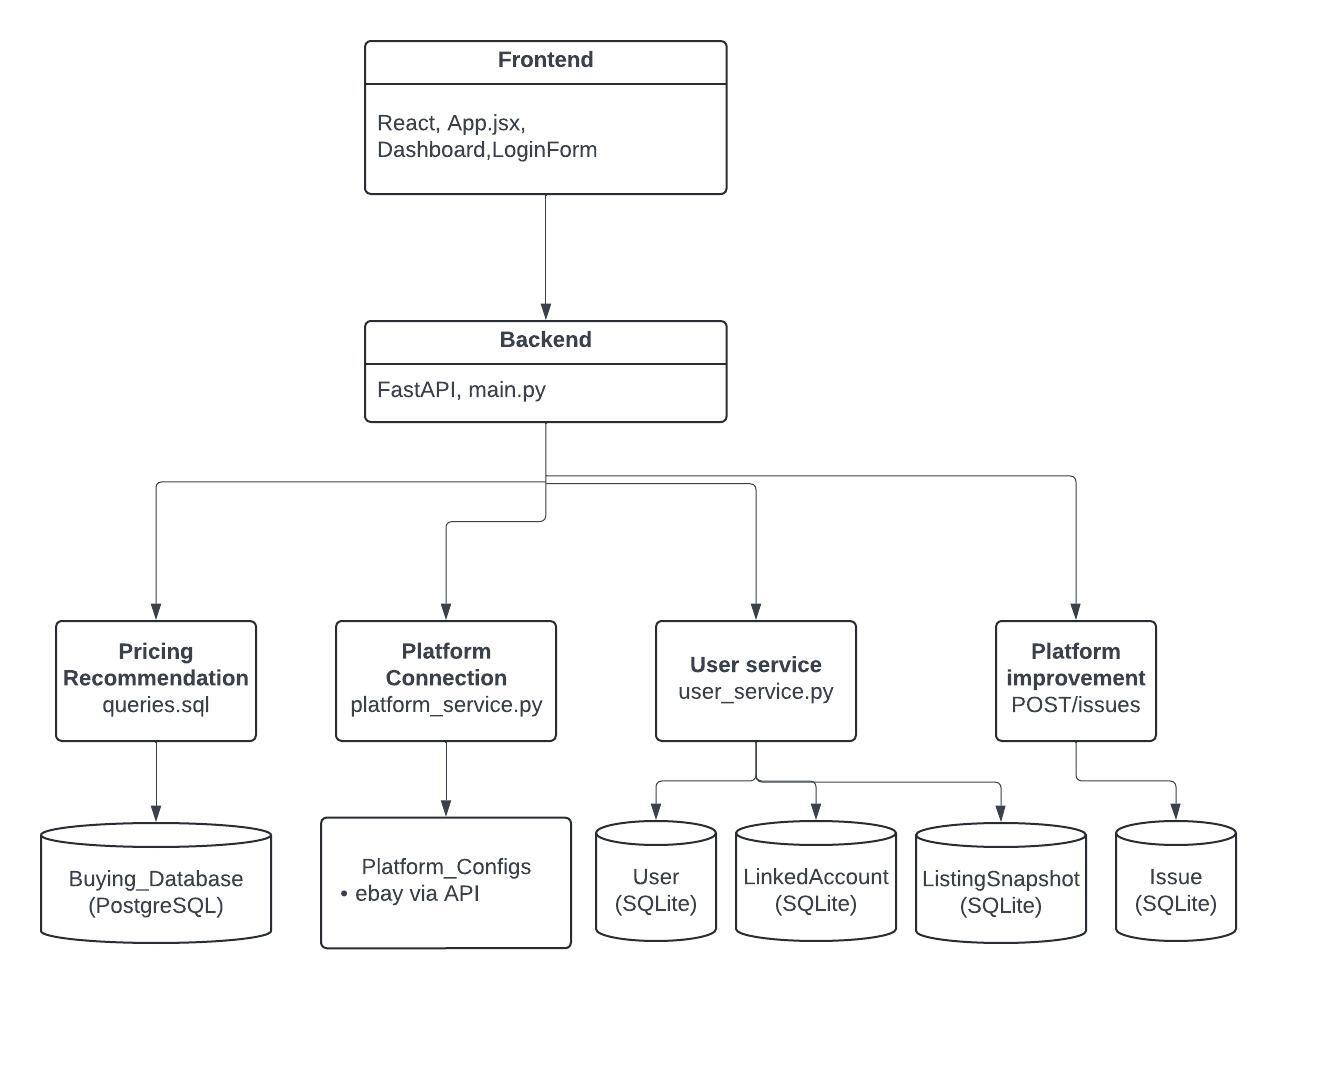
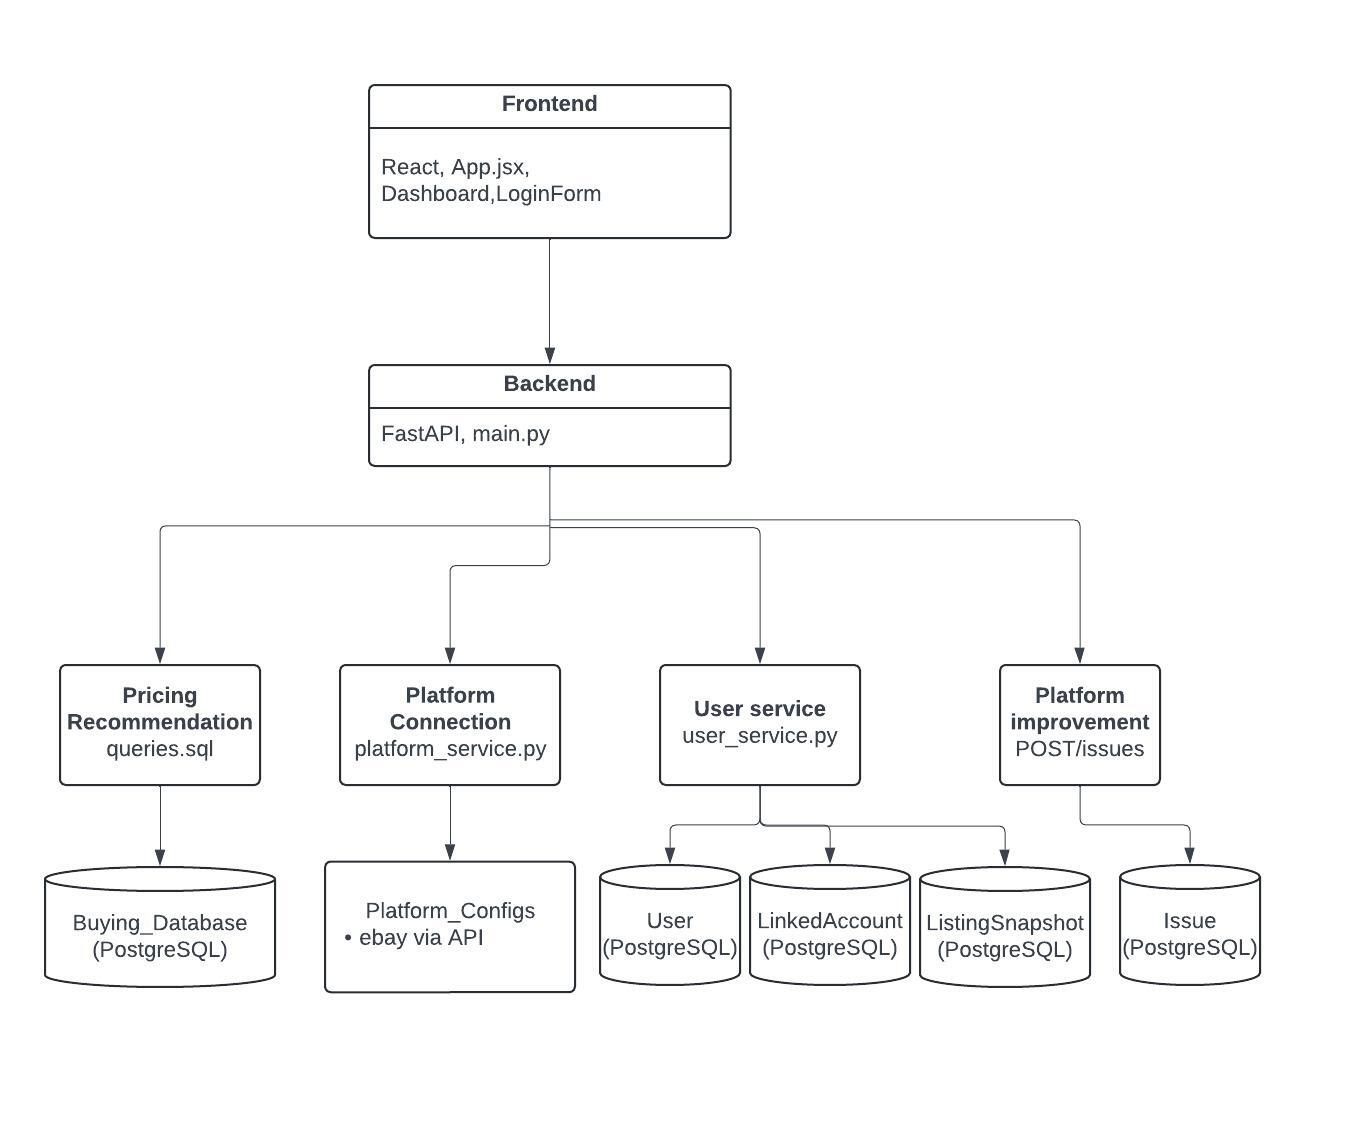
Change DB type

diff --git a/architecture/README.md b/architecture/README.md
@@ -25,7 +25,7 @@ This database incorporates the items listed on the platform in the PostgreSQL da
 Connections to each platform will be managed through the platform config. For this project, we were able to incorporate ebay. In the platform_service.py file, you will be able to find the section that includes the necessay information in order to connect the platform to ebay.
 
 * User Service
-User information is managed through two main databases using SQLite. First being the 'User' database. This is where we store user information such as user id, first name, last name, email, password, the date the account was created, linked accounts, and platform listing. Once the user information is incorporated, the user will be able to manage their own selling platform. Among the user information, the user is able to update their email and change their password in the future. The second database is 'LinkedAccount' database which manages external selling platform accounts that the user account has linkage to. This database stores information such as linkage id, platform name, access token, referesh token, token expiration, platform user id, date linkage was created, and user(cross platform sale) information.
+User information is managed through two main databases using PostgreSQL. First being the 'User' database. This is where we store user information such as user id, first name, last name, email, password, the date the account was created, linked accounts, and platform listing. Once the user information is incorporated, the user will be able to manage their own selling platform. Among the user information, the user is able to update their email and change their password in the future. The second database is 'LinkedAccount' database which manages external selling platform accounts that the user account has linkage to. This database stores information such as linkage id, platform name, access token, referesh token, token expiration, platform user id, date linkage was created, and user(cross platform sale) information.
 ---
 
 ## Design #2: Structural Design Pattern - Adapter Pattern
